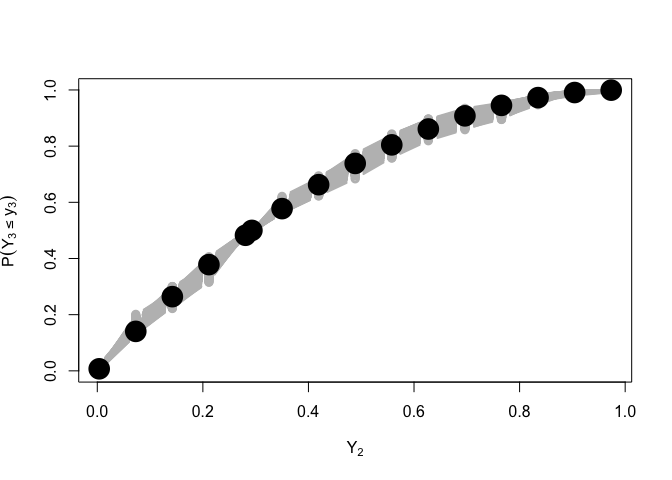
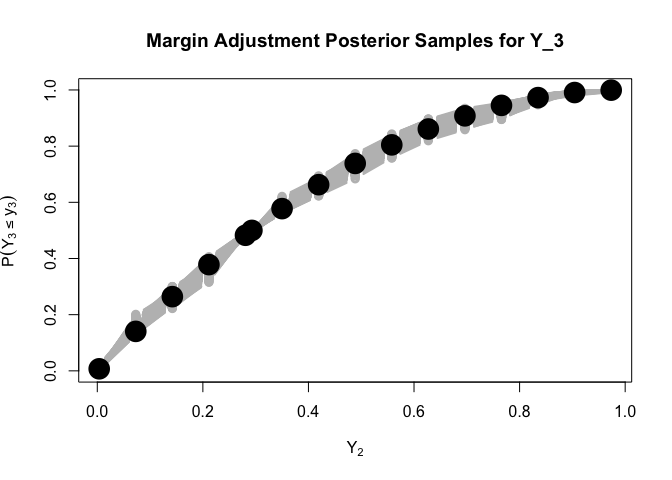
read me

Changed region(s): [[0.2188, 0.0625, 0.8438, 0.125]]

diff --git a/README.md b/README.md
@@ -53,7 +53,7 @@ $\boldsymbol Y_{ij}$ for $R_{ij}>0$.
   print("Missingness in Each Y_j:")
 #> [1] "Missingness in Each Y_j:"
   print(colMeans(R))
-#> [1] 0.500 0.493 0.504 0.501 0.490
+#> [1] 0.473 0.500 0.498 0.507 0.494
 
   # Now we'll create the study variables. Here we use gamma, t, and beta marginals 
   
@@ -90,29 +90,29 @@ $\boldsymbol Y_{ij}$ for $R_{ij}>0$.
       print("Summary of (Y^obs, R)")
 #> [1] "Summary of (Y^obs, R)"
       print(summary(Y_obs))
-#>       Y_j              Y_j              Y_j              Y_j        
-#>  Min.   :0.0049   Min.   :-1.832   Min.   :0.0006   Min.   :0.0003  
-#>  1st Qu.:0.2970   1st Qu.: 1.181   1st Qu.:0.1080   1st Qu.:0.2655  
-#>  Median :0.6921   Median : 1.974   Median :0.2324   Median :0.6585  
-#>  Mean   :1.0209   Mean   : 2.185   Mean   :0.2797   Mean   :0.9427  
-#>  3rd Qu.:1.4553   3rd Qu.: 2.940   3rd Qu.:0.4061   3rd Qu.:1.2528  
-#>  Max.   :7.8066   Max.   : 8.637   Max.   :0.9299   Max.   :7.1838  
-#>  NA's   :500      NA's   :493      NA's   :504      NA's   :501     
-#>       Y_j                V6            V7              V8       
-#>  Min.   :-1.8681   Min.   :0.0   Min.   :0.000   Min.   :0.000  
-#>  1st Qu.: 0.9891   1st Qu.:0.0   1st Qu.:0.000   1st Qu.:0.000  
-#>  Median : 1.6290   Median :0.5   Median :0.000   Median :1.000  
-#>  Mean   : 1.7518   Mean   :0.5   Mean   :0.493   Mean   :0.504  
-#>  3rd Qu.: 2.4742   3rd Qu.:1.0   3rd Qu.:1.000   3rd Qu.:1.000  
-#>  Max.   : 6.5849   Max.   :1.0   Max.   :1.000   Max.   :1.000  
-#>  NA's   :490                                                    
-#>        V9             V10      
-#>  Min.   :0.000   Min.   :0.00  
-#>  1st Qu.:0.000   1st Qu.:0.00  
-#>  Median :1.000   Median :0.00  
-#>  Mean   :0.501   Mean   :0.49  
-#>  3rd Qu.:1.000   3rd Qu.:1.00  
-#>  Max.   :1.000   Max.   :1.00  
+#>       Y_j              Y_j               Y_j              Y_j        
+#>  Min.   :0.0135   Min.   :-0.9394   Min.   :0.0001   Min.   :0.0002  
+#>  1st Qu.:0.5351   1st Qu.: 0.9185   1st Qu.:0.1281   1st Qu.:0.2311  
+#>  Median :1.1101   Median : 1.5254   Median :0.2800   Median :0.6188  
+#>  Mean   :1.4057   Mean   : 1.6877   Mean   :0.3247   Mean   :0.9463  
+#>  3rd Qu.:2.0236   3rd Qu.: 2.3426   3rd Qu.:0.4827   3rd Qu.:1.2290  
+#>  Max.   :6.8687   Max.   : 9.5645   Max.   :0.9457   Max.   :6.6074  
+#>  NA's   :473      NA's   :500       NA's   :498      NA's   :507     
+#>       Y_j               V6              V7            V8              V9       
+#>  Min.   :-2.393   Min.   :0.000   Min.   :0.0   Min.   :0.000   Min.   :0.000  
+#>  1st Qu.: 1.523   1st Qu.:0.000   1st Qu.:0.0   1st Qu.:0.000   1st Qu.:0.000  
+#>  Median : 2.445   Median :0.000   Median :0.5   Median :0.000   Median :1.000  
+#>  Mean   : 2.712   Mean   :0.473   Mean   :0.5   Mean   :0.498   Mean   :0.507  
+#>  3rd Qu.: 3.620   3rd Qu.:1.000   3rd Qu.:1.0   3rd Qu.:1.000   3rd Qu.:1.000  
+#>  Max.   :12.463   Max.   :1.000   Max.   :1.0   Max.   :1.000   Max.   :1.000  
+#>  NA's   :494                                                                   
+#>       V10       
+#>  Min.   :0.000  
+#>  1st Qu.:0.000  
+#>  Median :0.000  
+#>  Mean   :0.494  
+#>  3rd Qu.:1.000  
+#>  Max.   :1.000  
 #> 
 ```
 
@@ -121,23 +121,23 @@ $\boldsymbol Y_{ij}$ for $R_{ij}>0$.
 Now we’ll estimate the EHQL copula. To do so requires several pieces of
 information specified by the user:
 
-- $$\texttt{YR}$$: This is the combined observed study variables and
+- $\texttt{YR}$: This is the combined observed study variables and
   missingness indicators. It is given by $\texttt{Yobs}$ above.
-- $$\texttt{ncolY}$$: The number of study variables. In this example we
+- $\texttt{ncolY}$: The number of study variables. In this example we
   have $\texttt{ncolY} = 5$:
-- $$\texttt{ncolR}$$: The number of study variables modeled as
+- $\texttt{ncolR}$: The number of study variables modeled as
   non-ignorable. In this example we have $\texttt{ncolR} = 5$
 - aux_quantiles: auxiliary quantiles assumed known for each study
   variable. This is a list of length $\texttt{ncolY}$, where the
-  aux_quantiles\[\[j\]\] = $$(0,\{\tau_{k_{j}}\}_{k=1}^{q},...,1\}$$,
-  i.e. there are $$q_{j}+2$$ auxiliary quantiles assumed known for each
-  variable. If $$\texttt{aux_quantiles[[j]]}$$ is null, empirical
-  deciles will be used. Note the quantiles for each variable do not need
-  to be unique.
-- aux_infos: This is a list of length $$\texttt{ncolY}$$ where
+  aux_quantiles\[\[j\]\] = $(0,\{\tau_{k_{j}}\}_{k=1}^{q},...,1\}$,
+  i.e. there are $q_{j}+2$ auxiliary quantiles assumed known for each
+  variable. If $\texttt{aux_quantiles[[j]]}$ is null, empirical deciles
+  will be used. Note the quantiles for each variable do not need to be
+  unique.
+- aux_infos: This is a list of length $\texttt{ncolY}$ where
   aux_infos\[\[j\]\] =
-  $$(F_{j}^{-1}(0),\{F_{j}^{-1}(\tau_{k_{j}})\}_{k=1}^{q},...,F_{j}^{-1}(1)\}$$
-- $$\texttt{MA}$$: vector of length ncolY indicating whether or not to
+  $(F_{j}^{-1}(0),\{F_{j}^{-1}(\tau_{k_{j}})\}_{k=1}^{q},...,F_{j}^{-1}(1)\}$
+- $\texttt{MA}$: vector of length ncolY indicating whether or not to
   compute the margin adjustment. This is strongly recommended for all
   levels of auxiliary information, and especially when auxiliary
   information is extremely sparse, as it propagates uncertainty about
@@ -220,21 +220,21 @@ Analyze margin Adjustment
     if(j == 2){
     plot(imps$x_ma[[j]],imps$MAs[[j]][1,], type = 'n', xlab = expression(Y[2]),
          ylab = expression(paste(P(Y[2]<=y[2]))),
-         main =paste("Margin Adjustment Posterior Samples"),
+         main =paste("Margin Adjustment Posterior Samples for Y_2"),
          ylim = c(0,1),
          lwd = 3, 
          cex = 2)
     }else if(j==1){
       plot(imps$x_ma[[j]],imps$MAs[[j]][1,], type = 'n', xlab = expression(Y[2]),
          ylab = expression(paste(P(Y[1]<=y[1]))),
-         main =paste(""),
+         main =paste("Margin Adjustment Posterior Samples for Y_1"),
          ylim = c(0,1),
          lwd = 3, 
          cex = 2)
     }else{
       plot(imps$x_ma[[j]],imps$MAs[[j]][1,], type = 'n', xlab = expression(Y[2]),
          ylab = expression(paste(P(Y[3]<=y[3]))),
-         main =paste(""),
+         main =paste("Margin Adjustment Posterior Samples for Y_3"),
          ylim = c(0,1),
          lwd = 3, 
          cex = 2)
